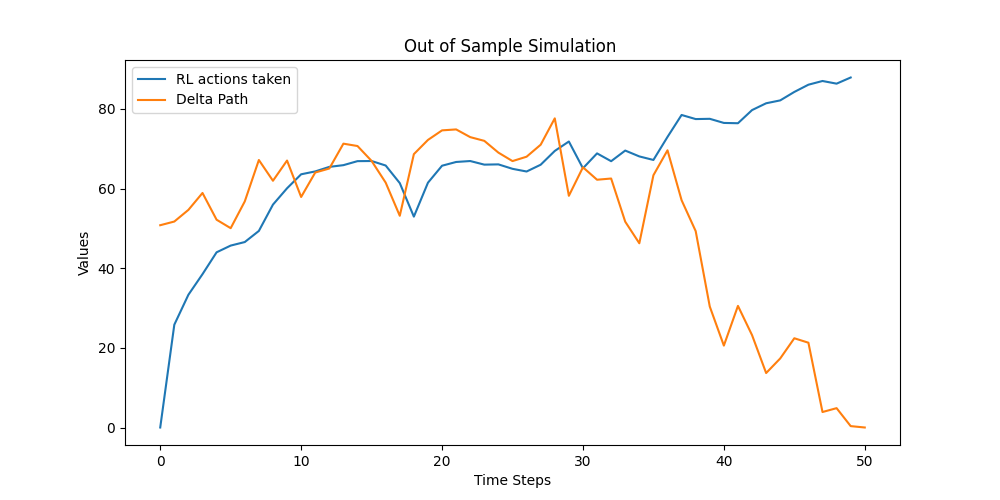
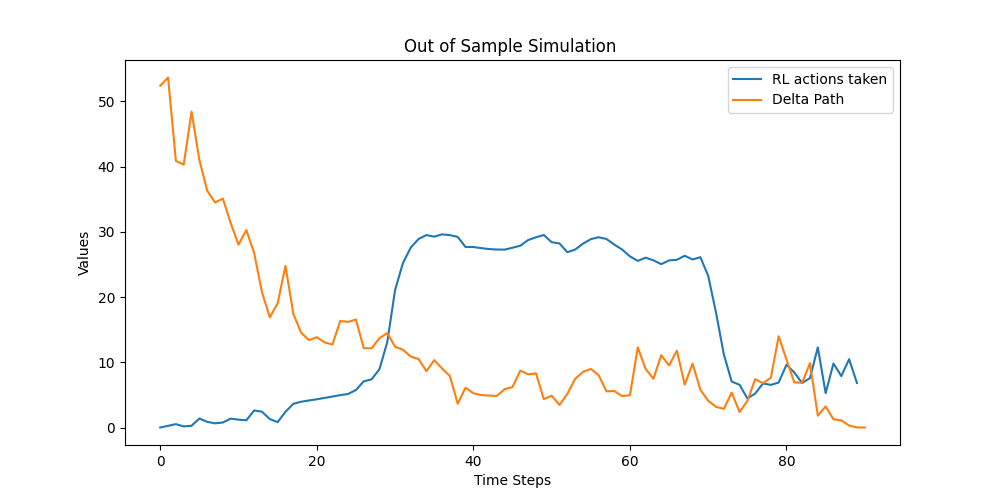
3 months daily weights for ttm=90 freq=1

diff --git a/ddpg_test.py b/ddpg_test.py
@@ -16,7 +16,7 @@ if __name__ == "__main__":
     tag = "6"
     
      # set init_ttm, spread, and other parameters according to the env that the model is trained
-    env_test = TradingEnv(continuous_action_flag=True, sabr_flag=False, dg_random_seed=None, spread=0.01, num_contract=1, init_ttm=90, trade_freq=1, num_sim=10000)
+    env_test = TradingEnv(continuous_action_flag=True, sabr_flag=False, dg_random_seed=None, spread=0.01, num_contract=1, init_ttm=90, trade_freq=1, num_sim=1000)
     ddpg_test = DDPG(env_test)
 
     print("\n\n***")
@@ -30,7 +30,7 @@ if __name__ == "__main__":
             print("Testing model saved at " + tag + "K episode.")
         ddpg_test.load(tag=tag)
 
-    ddpg_test.test(10000, delta_flag=delta_action_test, bartlett_flag=bartlett_action_test)
+    ddpg_test.test(1000, delta_flag=delta_action_test, bartlett_flag=bartlett_action_test)
 
     # for i in range(1, 51):
     #     tag = str(i)

diff --git a/drl.py b/drl.py
@@ -130,7 +130,7 @@ class DRL:
         plt.title('Kernel Density Plot of Total Cost')
         plt.legend()
         plt.grid(True)
-        plt.savefig("Total_Cost_kde_plot.png")
+        plt.savefig("Kernel_Density_Plot_Total_Cost.png")
         plt.show()
 
         # Kernel density plot showing the total cost of delta hedging
